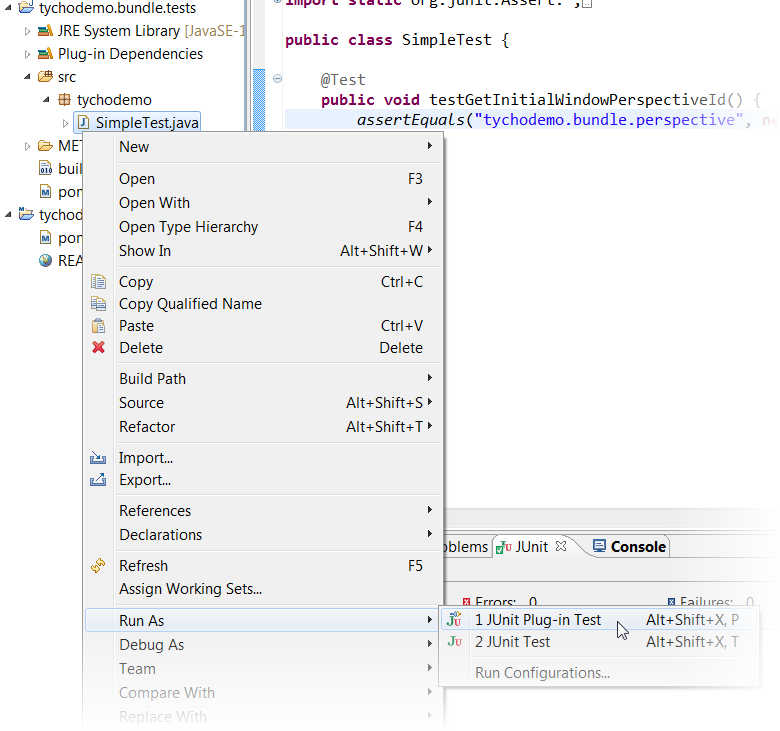
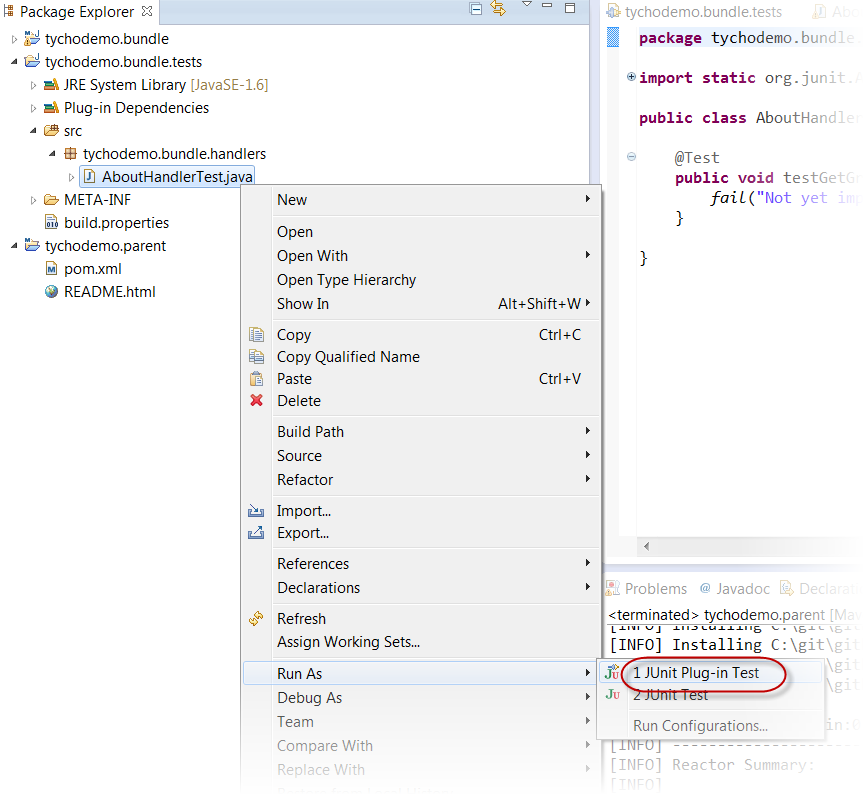
Update exercise 2 README

Changed region(s): [[0.0, 0.0, 0.9846, 0.9932], [0.2769, 0.8427, 0.4308, 0.9932]]

diff --git a/exercises/Exercise_02_Add_Test_Fragment/tychodemo.parent/README.html b/exercises/Exercise_02_Add_Test_Fragment/tychodemo.parent/README.html
@@ -12,7 +12,7 @@
 
 In this exercise, we will add a simple JUnit test in a fragment to the tychodemo.bundle.<br/>
 We will run the test from eclipse as a JUnit plugin test and then show how the test can 
-be built and run by Tycho simly by adding a Maven project file <tt>pom.xml</tt>.<br/>
+be built and run by Tycho by converting the test project to a Maven project.<br/>
 A failed test will also fail the headless build.<br/>
 <br/>
 
@@ -24,7 +24,11 @@ Common settings have been extracted to a parent POM <a href="pom.xml"><tt>tychod
 <li> Import the 2 projects from this folder into the new empty eclipse workspace using <tt>File > Import > Maven > Existing Maven Projects</tt><br/>
 <img src="../resources/import.png"/>
 </li>
-<li>Right-click on tychodemo.parent, <tt>Run As > Maven install</tt><br/>
+<li> Open <tt>pom.xml</tt> in <tt>tychodemo.parent</tt> and change the file URL to point to the folder <tt>tutorial/p2_repository/</tt> which you copied earlier from the USB stick:<br/>
+<img src="../resources/p2_repo_path.png"/>
+
+</li>
+<li>Right-click on tychodemo.parent, <tt>Run As > Maven build</tt>, enter Goals: <tt>clean install</tt>.<br/>
 The build should succeed and build 2 modules:<br/>
 <img src="../resources/build_success.png"/>
 </li>
@@ -40,28 +44,29 @@ The build should succeed and build 2 modules:<br/>
 	 </tr>
 	</table>
 <br/>
-  Notes: <ul>
-            <li>Make sure the new project root folder is located next to the existing modules
-           (Uncheck "Use default location" in the project creation wizard and enter location if necessary)
-		   </li>
-            <li>As opposed to classic maven projects, tests are always in a separate module
+  Note: 
+           As opposed to classic maven projects, tests are always in a separate module
            because otherwise we would pollute productive code with test-scoped dependencies in MANIFEST. <br/>
            We use a fragment because: 
 		   <ol>
             <li> otherwise we would have to export packages of classes under test in MANIFEST</li>
             <li>we want to be able to test package-private members</li>
 			</ol>
-			</li>
-		</ul>
 </li>
-<li> In the fragment project, create a new JUnit test case <tt>tychodemo.SimpleTest</tt>
+<li>
+First we create a method which we want to test: <br/>
+Open <tt>AboutHandler.java</tt>, select the about text String and extract it into method <tt>getGreeting()</tt> with default visibility (package-private) using <tt>Refactor > Extract Method</tt><br/>
+<img src="../resources/extract_method.png"/><br/>
+<img src="../resources/extract_method_2.png"/>
+</li>
+<li> In the fragment project, create a new JUnit test case <tt>tychodemo.bundle.handlers.AboutHandlerTest</tt>
   <ul>
    <li><tt>File > New > Other > JUnit Test Case</tt>
    </li>
-   <li>choose <tt>tychodemo.bundle.ApplicationWorkbenchAdvisor</tt> as class under test<br/>
+   <li>choose <tt>tychodemo.bundle.handlers.AboutHandler</tt> as class under test<br/>
 <img src="../resources/new_junit_testcase_1.png"/>
    </li>
-   <li>choose <tt>getInitialWindowPerspectiveId()</tt> as test method for which a stub will be created<br/>
+   <li>choose <tt>getGreeting()</tt> as test method for which a stub will be created<br/>
 <img src="../resources/new_junit_testcase_2.png"/>
    </li>
    <li>confirm "Add org.junit to required bundles" if prompted</li>
@@ -79,54 +84,44 @@ The build should succeed and build 2 modules:<br/>
   <img src="../resources/failed_test.png"/>
 
 </li>
-<li> Add the fragment module to the reactor and run the build:
+<li> Convert the test fragment project to a Maven project and add it as a module to the parent:
   <ul>
-  <li>Add a pom.xml file to the root of the fragment project using <tt>File > New > File</tt>with content:
-  <pre>
-	&lt;?xml version="1.0" encoding="UTF-8"?&gt;
-	&lt;project
-		xsi:schemaLocation="http://maven.apache.org/POM/4.0.0 http://maven.apache.org/xsd/maven-4.0.0.xsd"
-		xmlns="http://maven.apache.org/POM/4.0.0" xmlns:xsi="http://www.w3.org/2001/XMLSchema-instance"&gt;
-		&lt;modelVersion&gt;4.0.0&lt;/modelVersion&gt;
-		&lt;parent&gt;
-			&lt;groupId&gt;tychodemo&lt;/groupId&gt;
-			&lt;artifactId&gt;tychodemo.parent&lt;/artifactId&gt;
-			&lt;version&gt;1.0.0-SNAPSHOT&lt;/version&gt;
-			&lt;relativePath&gt;../tychodemo.parent/pom.xml&lt;/relativePath&gt;
-		&lt;/parent&gt;
-		&lt;groupId&gt;tychodemo&lt;/groupId&gt;
-		&lt;artifactId&gt;tychodemo.bundle.tests&lt;/artifactId&gt;
-		&lt;version&gt;1.0.0-SNAPSHOT&lt;/version&gt;
-		&lt;packaging&gt;eclipse-test-plugin&lt;/packaging&gt;
-	&lt;/project&gt;  
-</pre>
-	
-   Note the packaging type <tt>eclipse-test-plugin</tt> which indicates this bundle or fragment contains tests which should be executed during build.
+  <li>Same as in <a href="../../Exercise_01_Create_RCP_Bundle/README.html#convert_to_maven">exercise 1</a>, right-click the project <tt>tychodemo.bundle.tests</tt> and choose <tt>Configure > Convert to Maven Project</tt>.</li>
+  <li>Enter groupId: <tt>tychodemo</tt>, Version:<tt>1.0.0-SNAPSHOT</tt> and Packaging: <tt>eclipse-test-plugin</tt><br/>
+  <img src="../resources/create_pom.png"/><br/>
+  
+   Note the packaging type <tt>eclipse-test-plugin</tt> which indicates this bundle or fragment contains tests which should be executed during build.<br/>
+   Again, you will get an error <tt>Unknown packaging: eclipse-test-plugin</tt> because the tycho build extension is not configured yet. Ignore this error for now.
    </li>
    </ul>
+   <li> Same as in <a href="../../Exercise_01_Create_RCP_Bundle/README.html#remove_build_section">exercise 1</a>, remove the unnecessary <tt>&lt;build&gt;</tt> section from the newly created <tt>pom.xml</tt>.
+   </li>
 </li>
    
    <li>Add the module to <tt>&lt;modules&gt;</tt> section of the <a href="pom.xml">parent pom.xml</a>:
-     <pre>
-   		&lt;module&gt;../tychodemo.bundle.tests&lt;/module&gt;
-		</pre>
-		</li>
-   <li> Right-click <tt>tychodemo.parent</tt>, <tt> Run As > Maven install</tt><br/>
+   Open <tt>tychodemo.parent/pom.xml</tt>, on the "Overview" tab in the "Modules" section, press <tt>Add...</tt>.<br/>
+  <img src="../resources/add_module_1.png"/><br/>
+  Select <tt>tychodemo.bundle.tests</tt> and <tt>Update POM parent in selected projects</tt>:<br/>
+  <img src="../resources/add_module_2.png"/><br/>
+  Expected result is a new module<br/>
+  <img src="../resources/add_module_3.png"/><br/>
+   and the error <tt>Unknown packaging: eclipse-test-plugin</tt> must be gone now.
+	</li>
+   <li> Right-click <tt>tychodemo.parent</tt>, <tt> Run As > Maven build</tt>, enter Goals: <tt>clean install</tt><br/>
      Expected result: build should fail because of the same test failure we just saw in eclipse:<br/>
   <img src="../resources/failed_test_maven.png"/>
 </li>
    
 <li> Implement the test:
   <ul>
-   <li>assert that <tt>tychodemo.bundle.perspective</tt> is the return value of 
-    <tt>tychodemo.bundle.ApplicationWorkbenchAdvisor.getInitialWindowPerspectiveId()</tt><br/>
+   <li>assert that <tt>getGreeting()</tt> contains <tt>"Tycho Demo"</tt></tt><br/>
   <img src="../resources/test_impl.png"/>
 	
 	</li>
     <li>test should now succeed when executed in eclipse:<br/>
     <img src="../resources/test_success_eclipse.png"/>
 	</li>
-	<li><tt>Run As > Maven install</tt> should also succeed<br/>
+	<li><tt>Run As > Maven build</tt> on <tt>tychodemo.parent</tt> should now also succeed<br/>
     <img src="../resources/test_success_maven.png"/>
 	</li>
   </ul>

diff --git a/exercises/Exercise_01_Create_RCP_Bundle/README.html b/exercises/Exercise_01_Create_RCP_Bundle/README.html
@@ -50,7 +50,7 @@ We will compile and run the plugin from the IDE and then show how to build it wi
 <img src ="resources/about_3.png" />
  </li>
  </ul>
- <li>Right-click the <tt>tychodemo.bundle</tt> project and select <tt>Configure > Convert to Maven Project</tt><br/>
+ <li><a name="convert_to_maven"/>Right-click the <tt>tychodemo.bundle</tt> project and select <tt>Configure > Convert to Maven Project</tt><br/>
    <img src ="resources/convert_to_maven_1.png" />
  </li>
  <li>Enter <tt>Group Id: tychodemo</tt>, <tt>Version: 1.0.0-SNAPSHOT</tt>, <tt>Packaging: eclipse-plugin</tt>.<br/>
@@ -63,7 +63,7 @@ This is expected, because the tycho build extension is not yet configured (see n
    <img src ="resources/build_error.png" />
 </li>
  
-<li>Open <tt>pom.xml</tt>, go to Tab "pom.xml". Remove the complete <tt>&lt;build&gt;</tt> element (this is an <a href="https://bugs.eclipse.org/bugs/show_bug.cgi?id=374742">m2eclipse bug</a>).<br/>
+<li><a name="remove_build_section"/>Open <tt>pom.xml</tt>, go to Tab "pom.xml". Remove the complete <tt>&lt;build&gt;</tt> element (this is an <a href="https://bugs.eclipse.org/bugs/show_bug.cgi?id=374742">m2eclipse bug</a>).<br/>
    <img src ="resources/remove_build_section.png" />
 <li> To define the tycho version to be used, add this snippet into <tt>&lt;project&gt;</tt> :
 
